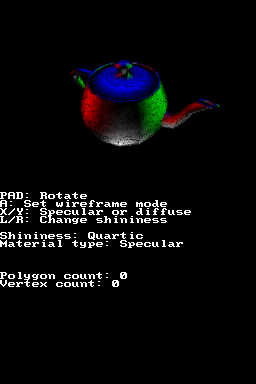
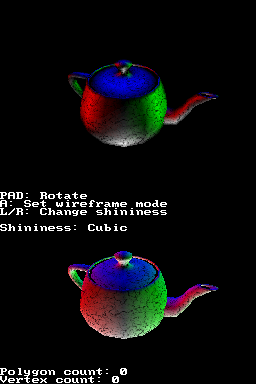
examples: Improve specular material example
Show the models with diffuse and specular materials at the same time.

diff --git a/examples/effects/specular_material/source/main.c b/examples/effects/specular_material/source/main.c
@@ -11,27 +11,33 @@
 #include "teapot_tex_bin.h"
 
 NE_Camera *Camera;
-NE_Model *Model;
-NE_Material *Material;
+NE_Model *ModelSpecular, *ModelDiffuse;
+NE_Material *MaterialSpecular, *MaterialDiffuse;
 
 bool wireframe;
 
-void Draw3DScene(void)
+void Draw3DScene1(void)
 {
     NE_CameraUse(Camera);
 
-    if (wireframe)
-        NE_PolyFormat(0, 0, NE_LIGHT_ALL, NE_CULL_BACK, 0);
-    else
-        NE_PolyFormat(31, 0, NE_LIGHT_ALL, NE_CULL_BACK, 0);
+    NE_PolyFormat(wireframe ? 0 : 31, 0, NE_LIGHT_ALL, NE_CULL_BACK, 0);
 
-    NE_ModelDraw(Model);
+    NE_ModelDraw(ModelSpecular);
 
-    printf("\x1b[10;0H"
+    printf("\x1b[22;0H"
            "Polygon count: %d   \n"
            "Vertex count: %d   ",
            NE_GetPolygonCount(),
            NE_GetVertexCount());
+}
+
+void Draw3DScene2(void)
+{
+    NE_CameraUse(Camera);
+
+    NE_PolyFormat(wireframe ? 0 : 31, 0, NE_LIGHT_ALL, NE_CULL_BACK, 0);
+
+    NE_ModelDraw(ModelDiffuse);
 }
 
 int main(void)
@@ -40,16 +46,15 @@ int main(void)
     irqSet(IRQ_VBLANK, NE_VBLFunc);
     irqSet(IRQ_HBLANK, NE_HBLFunc);
 
-    NE_Init3D();
-    // libnds uses VRAM_C for the text console, reserve A and B only
-    NE_TextureSystemReset(0, 0, NE_VRAM_AB);
-    // Init console in non-3D screen
-    consoleDemoInit();
+    NE_InitDual3D();
+    NE_InitConsole();
 
     // Allocate objects
-    Model = NE_ModelCreate(NE_Static);
     Camera = NE_CameraCreate();
-    Material = NE_MaterialCreate();
+    ModelSpecular = NE_ModelCreate(NE_Static);
+    ModelDiffuse = NE_ModelCreate(NE_Static);
+    MaterialSpecular = NE_MaterialCreate();
+    MaterialDiffuse = NE_MaterialCreate();
 
     // Setup camera
     NE_CameraSet(Camera,
@@ -57,13 +62,35 @@ int main(void)
                  0, 0, 0,
                  0, 1, 0);
 
-    // Load model. The texture coordinates are outside of [0.0, 1.0], so it is
-    // needed to enable wrapping.
-    NE_ModelLoadStaticMesh(Model, (u32*)teapot_bin);
-    NE_MaterialTexLoad(Material, NE_A1RGB5, 256, 256,
+    // Load model
+    NE_ModelLoadStaticMesh(ModelSpecular, (u32*)teapot_bin);
+    NE_ModelClone(ModelDiffuse, ModelSpecular);
+
+    // Load texture and clone it. The texture coordinates of the model are
+    // outside of [0.0, 1.0], so it is needed to enable wrapping.
+    NE_MaterialTexLoad(MaterialSpecular, NE_A1RGB5, 256, 256,
                        NE_TEXGEN_TEXCOORD | NE_TEXTURE_WRAP_S | NE_TEXTURE_WRAP_T,
                        (u8 *)teapot_tex_bin);
-    NE_ModelSetMaterial(Model, Material);
+    NE_MaterialClone(MaterialSpecular, MaterialDiffuse);
+
+    NE_ModelSetMaterial(ModelSpecular, MaterialSpecular);
+    NE_ModelSetMaterial(ModelDiffuse, MaterialDiffuse);
+
+    // Set some propierties to the materials
+
+    NE_MaterialSetPropierties(MaterialSpecular,
+                              RGB15(0, 0, 0),    // Diffuse
+                              RGB15(0, 0, 0),    // Ambient
+                              RGB15(31, 31, 31), // Specular
+                              RGB15(0, 0, 0),    // Emission
+                              false, true);      // Vtx color, use shininess table
+
+    NE_MaterialSetPropierties(MaterialDiffuse,
+                              RGB15(31, 31, 31), // Diffuse
+                              RGB15(0, 0, 0),    // Ambient
+                              RGB15(0, 0, 0),    // Specular
+                              RGB15(0, 0, 0),    // Emission
+                              false, false);     // Vtx color, use shininess table
 
     // Set light color and direction
     NE_LightSet(0, NE_White, 0, 1, 0);
@@ -71,8 +98,7 @@ int main(void)
     NE_LightSet(2, NE_Red, 1, 0, 0);
     NE_LightSet(3, NE_Green, -1, 0, 0);
 
-    bool use_specular = true;
-    NE_ShininessFunction shininess = NE_SHININESS_QUADRATIC;
+    NE_ShininessFunction shininess = NE_SHININESS_CUBIC;
 
     while (1)
     {
@@ -84,7 +110,6 @@ int main(void)
         printf("\x1b[0;0H"
                "PAD: Rotate\n"
                "A: Set wireframe mode\n"
-               "X/Y: Specular or diffuse\n"
                "L/R: Change shininess\n");
 
         if (keys & KEY_A)
@@ -94,13 +119,25 @@ int main(void)
 
         // Rotate model
         if (keys & KEY_UP)
-            NE_ModelRotate(Model, -2, 0, 0);
+        {
+            NE_ModelRotate(ModelSpecular, -2, 0, 0);
+            NE_ModelRotate(ModelDiffuse, -2, 0, 0);
+        }
         if (keys & KEY_DOWN)
-            NE_ModelRotate(Model, 2, 0, 0);
+        {
+            NE_ModelRotate(ModelSpecular, 2, 0, 0);
+            NE_ModelRotate(ModelDiffuse, 2, 0, 0);
+        }
         if (keys & KEY_RIGHT)
-            NE_ModelRotate(Model, 0, 2, 0);
+        {
+            NE_ModelRotate(ModelSpecular, 0, 2, 0);
+            NE_ModelRotate(ModelDiffuse, 0, 2, 0);
+        }
         if (keys & KEY_LEFT)
-            NE_ModelRotate(Model, 0, -2, 0);
+        {
+            NE_ModelRotate(ModelSpecular, 0, -2, 0);
+            NE_ModelRotate(ModelDiffuse, 0, -2, 0);
+        }
 
         // Shininess table
         // ---------------
@@ -127,38 +164,7 @@ int main(void)
 
         NE_ShininessTableGenerate(shininess);
 
-        // Diffuse or specular
-        // -------------------
-
-        if (keys & KEY_X)
-            use_specular = true;
-        if (keys & KEY_Y)
-            use_specular = false;
-
-        if (use_specular)
-        {
-            // Set some propierties to Material
-            NE_MaterialSetPropierties(Material,
-                        RGB15(0, 0, 0),    // Diffuse
-                        RGB15(0, 0, 0),    // Ambient
-                        RGB15(31, 31, 31), // Specular
-                        RGB15(0, 0, 0),    // Emission
-                        false, true);      // Vtx color, use shininess table
-        }
-        else
-        {
-            // Set some propierties to Material
-            NE_MaterialSetPropierties(Material,
-                        RGB15(31, 31, 31), // Diffuse
-                        RGB15(0, 0, 0),    // Ambient
-                        RGB15(0, 0, 0),    // Specular
-                        RGB15(0, 0, 0),    // Emission
-                        false, false);     // Vtx color, use shininess table
-        }
-
-        printf("\nMaterial type: %s", use_specular ? "Specular" : "Diffuse ");
-
-        NE_Process(Draw3DScene);
+        NE_ProcessDual(Draw3DScene1, Draw3DScene2);
         NE_WaitForVBL(0);
     }
 
